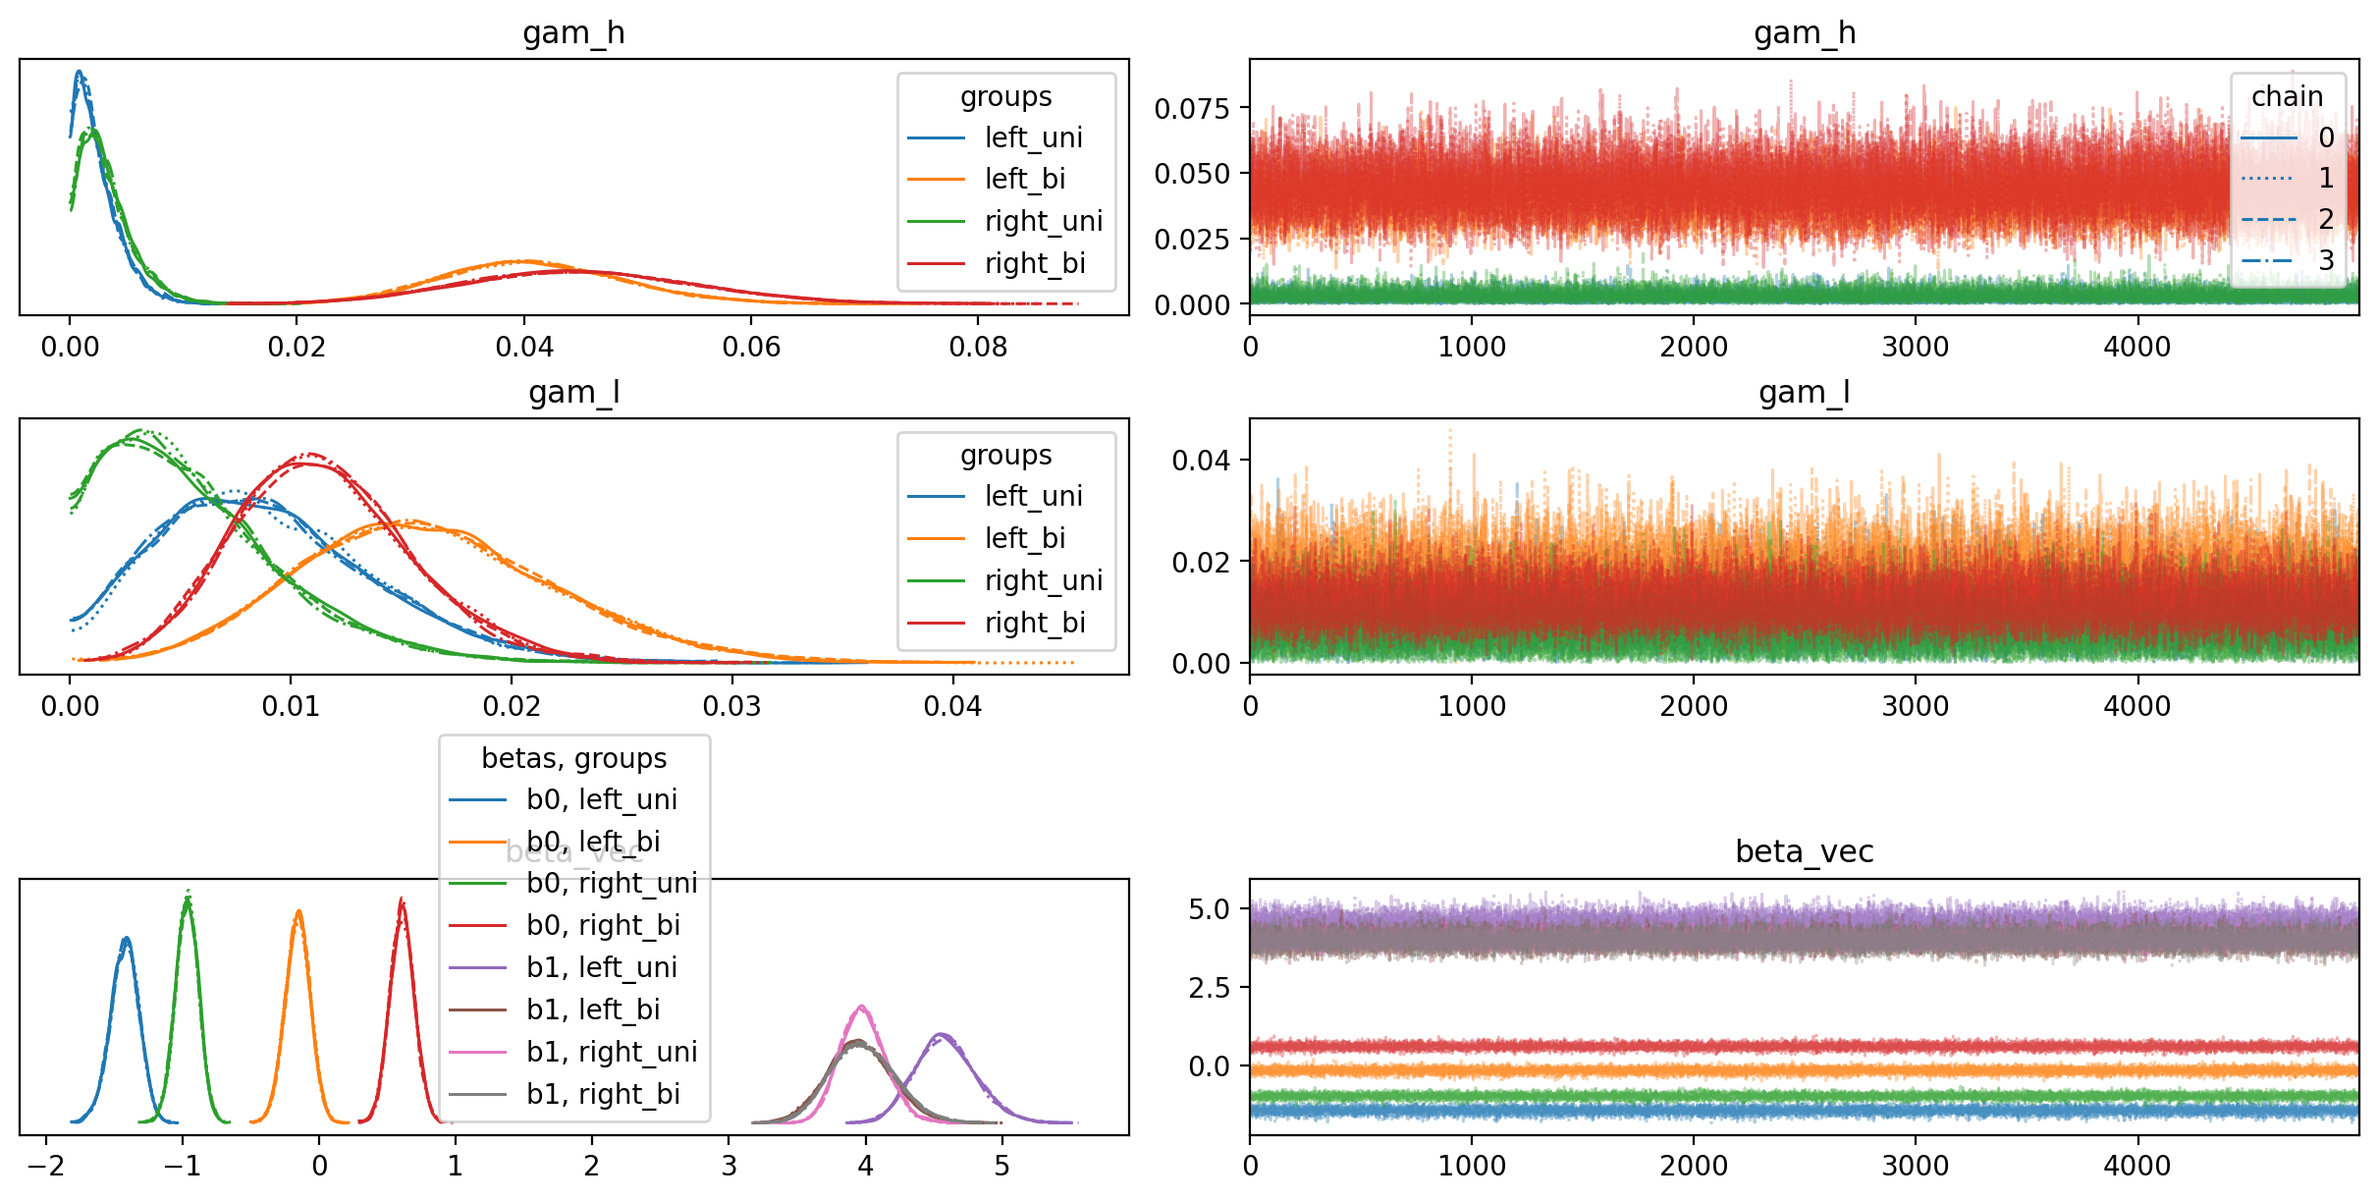
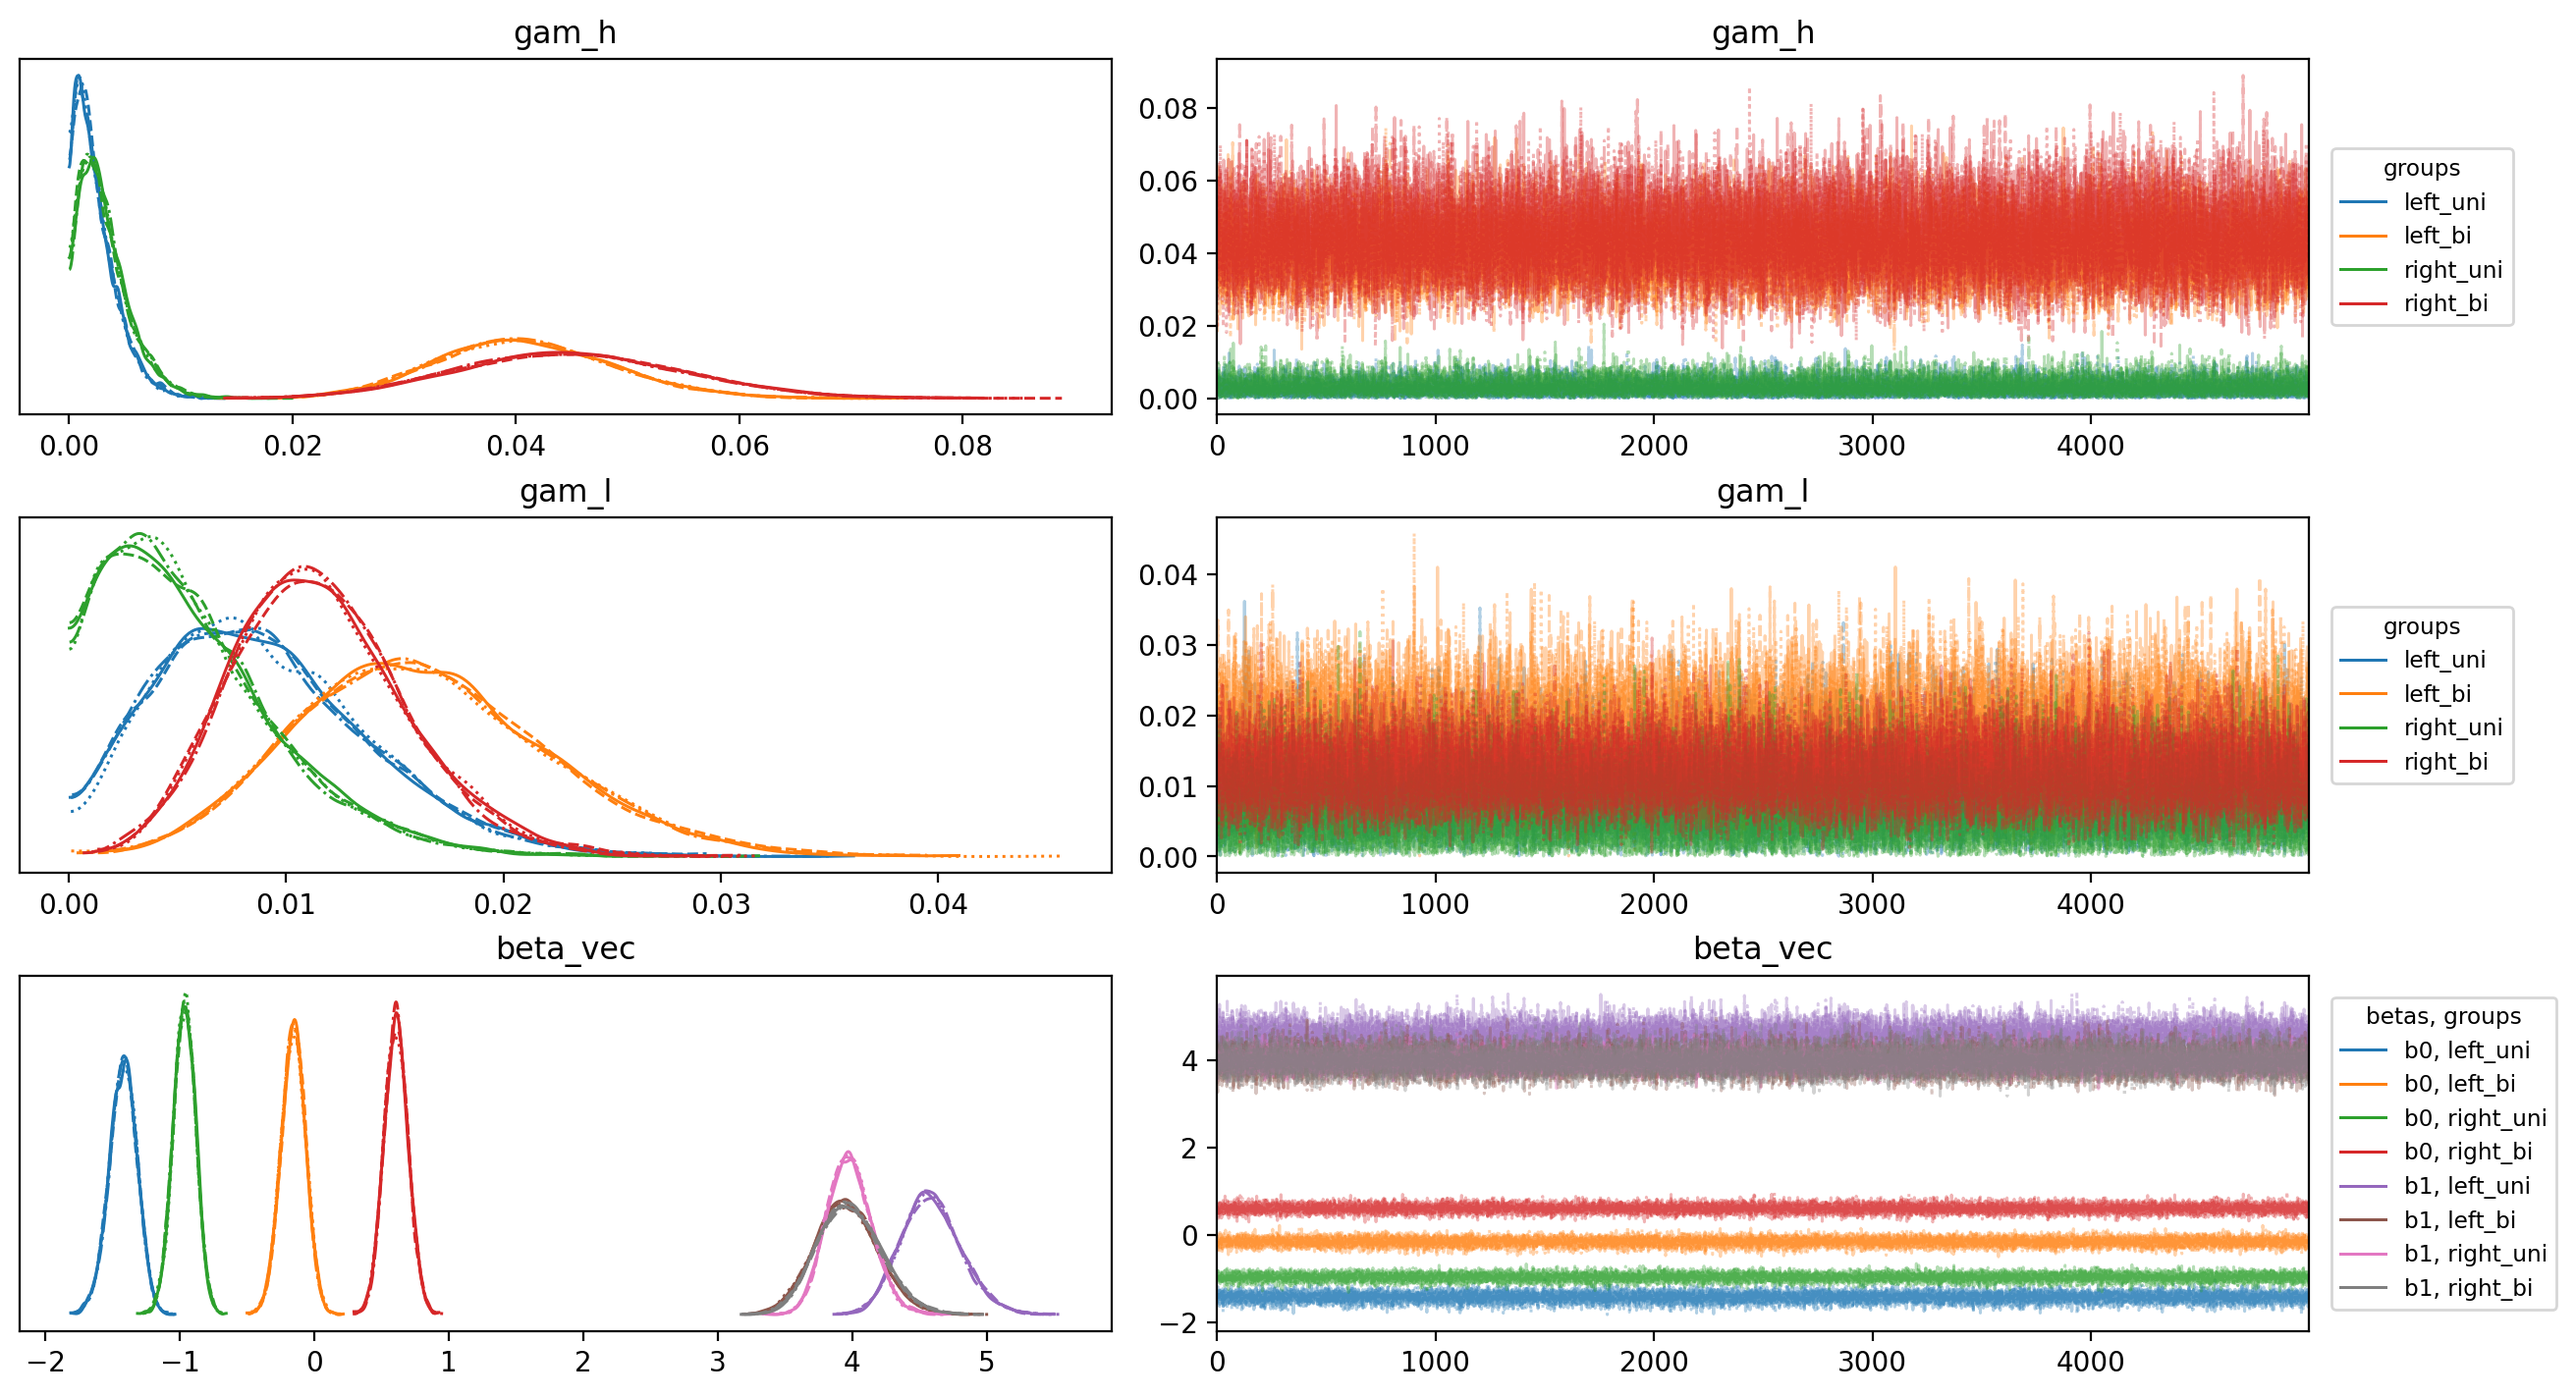
Claude: Move the trace-plot legends of the Model A fit beside their rows
The beta legend covered its panel's title and curves. Each group legend now
sits to the right of its row's draws panel (replacing ArviZ's chain legend,
which the line styles already show). Regenerated trace_all_groups.png from
the saved trace of the 2026-10-06 fit.

diff --git a/Model_A/Main_Analysis_A.py b/Model_A/Main_Analysis_A.py
@@ -86,7 +86,15 @@ print(result_df.to_string())
 #%% Look at traceplots (all groups overlaid)
 
 axes = az.plot_trace(trace, var_names=('gam_h', 'gam_l', 'beta_vec'), compact=True, legend=True,
-                     backend_kwargs={"constrained_layout": True})
+                     backend_kwargs={"constrained_layout": True, "figsize": (13, 7)})
+# move each group legend to the right of its row, where it can't cover the curves or the title
+for ax_dens, ax_draws in axes:
+    leg = ax_dens.get_legend()
+    if leg is not None:
+        handles, labels, title = leg.legend_handles, [t.get_text() for t in leg.get_texts()], leg.get_title().get_text()
+        leg.remove()
+        ax_draws.legend(handles, labels, title=title, loc='center left', bbox_to_anchor=(1.01, 0.5),
+                        fontsize='small', title_fontsize='small')
 save_fig(axes.ravel()[0].figure, 'trace_all_groups.png')
 plt.show()
 
